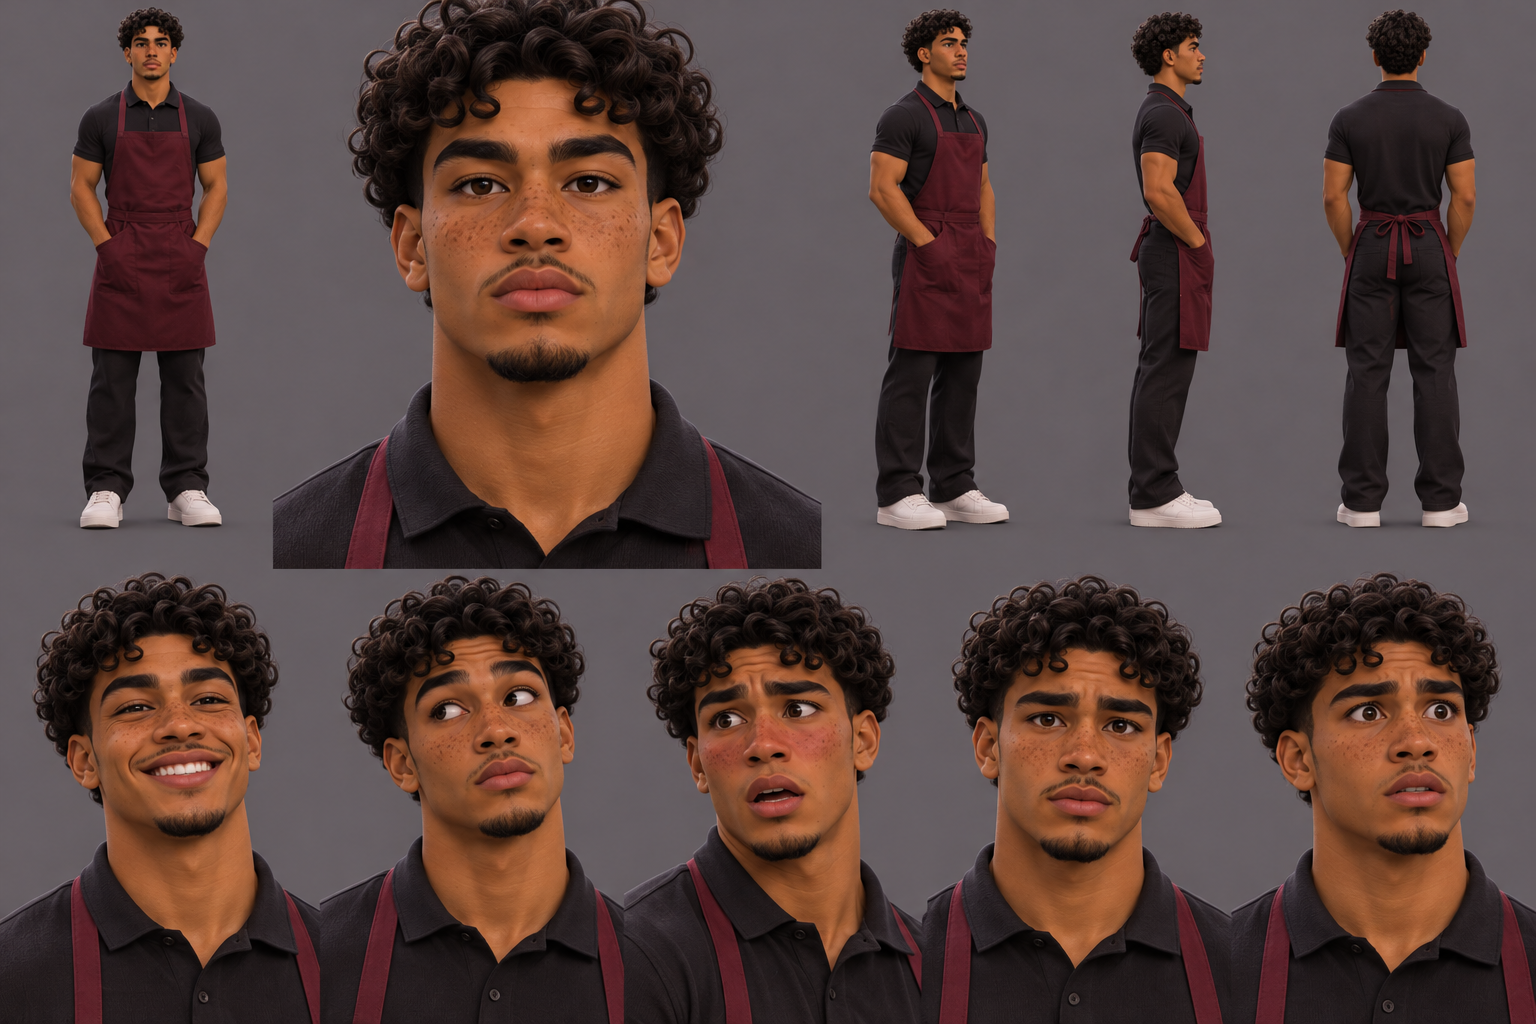
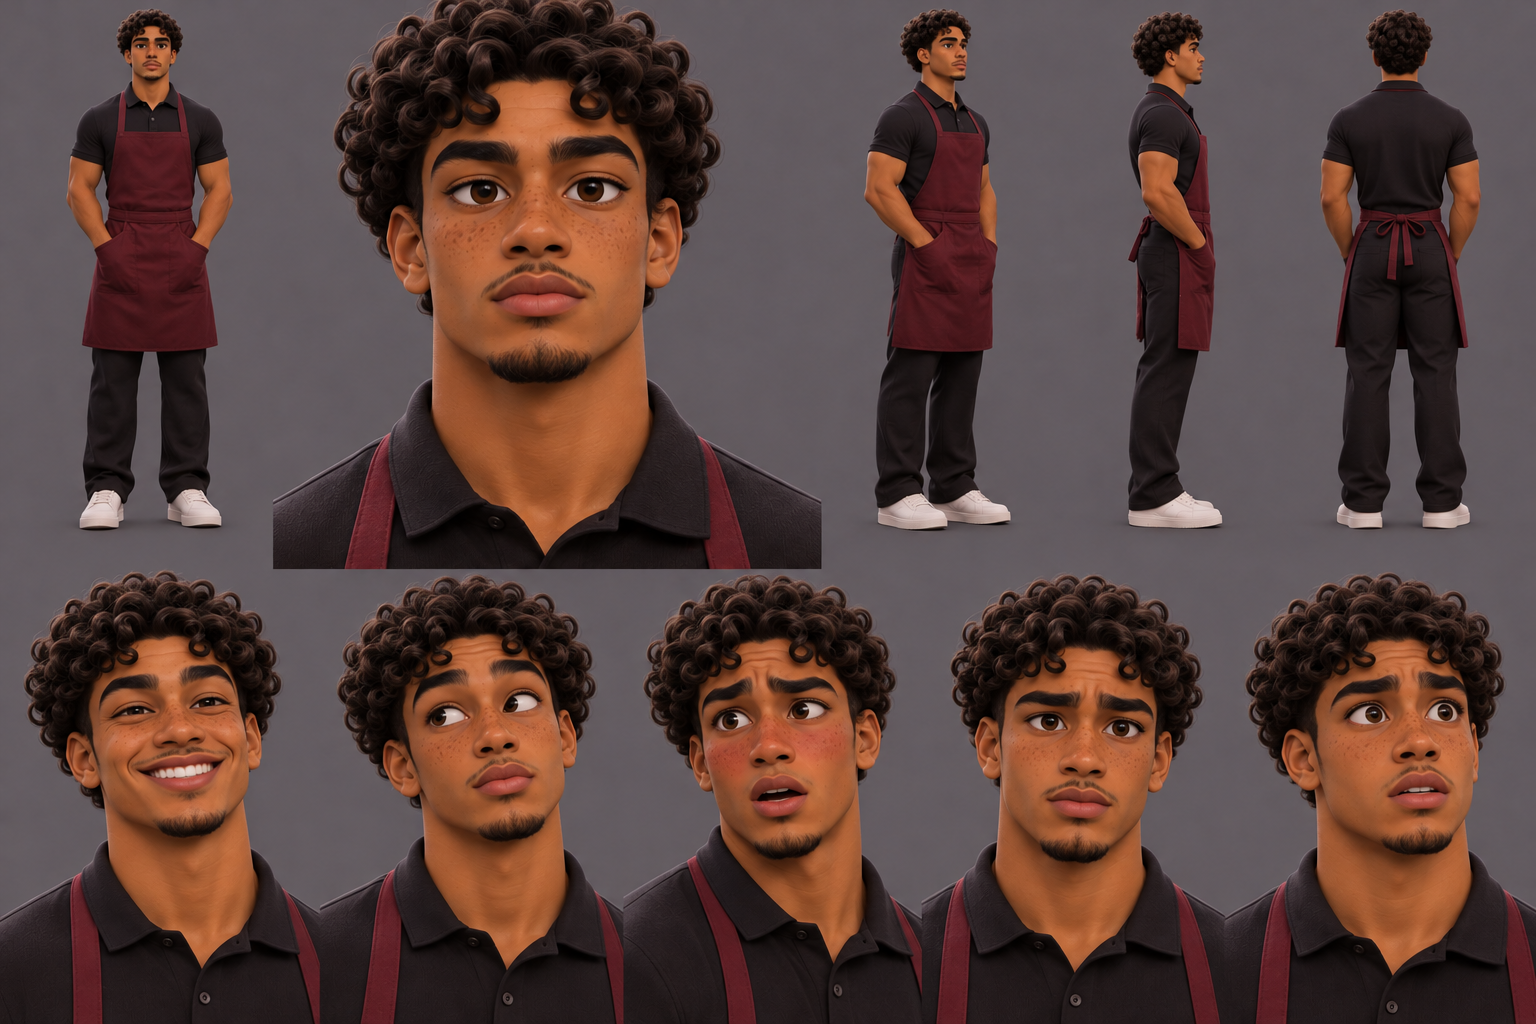
Replace Marquell cast sheet with the restyled version that matches the cast
Claude-Session: https://claude.ai/code/session_01YYfGHzeVFCDYa87q1otWRv

diff --git a/STATUS.md b/STATUS.md
@@ -12,7 +12,7 @@ Step 1 of the 3-shot test: making the six cast sheets in ChatGPT, one character 
 | Cast sheet 2, Stefon | approved by JWood, Nov 10 |
 | Cast sheet 3, Eiesha | approved by JWood, Nov 10 |
 | Cast sheet 4, Bianca | approved by JWood, Nov 10 |
-| Cast sheet 5, Marquell | approved by JWood, Nov 10 (slightly more realistic than the others; watch in the test stills) |
+| Cast sheet 5, Marquell | approved, Nov 10 (second version, restyled to match the cast) |
 | Cast sheet 6, Vanesha | in progress |
 | Plates L2, L4, L5 | todo |
 | Test stills 02D, 05B, 08C | todo |
